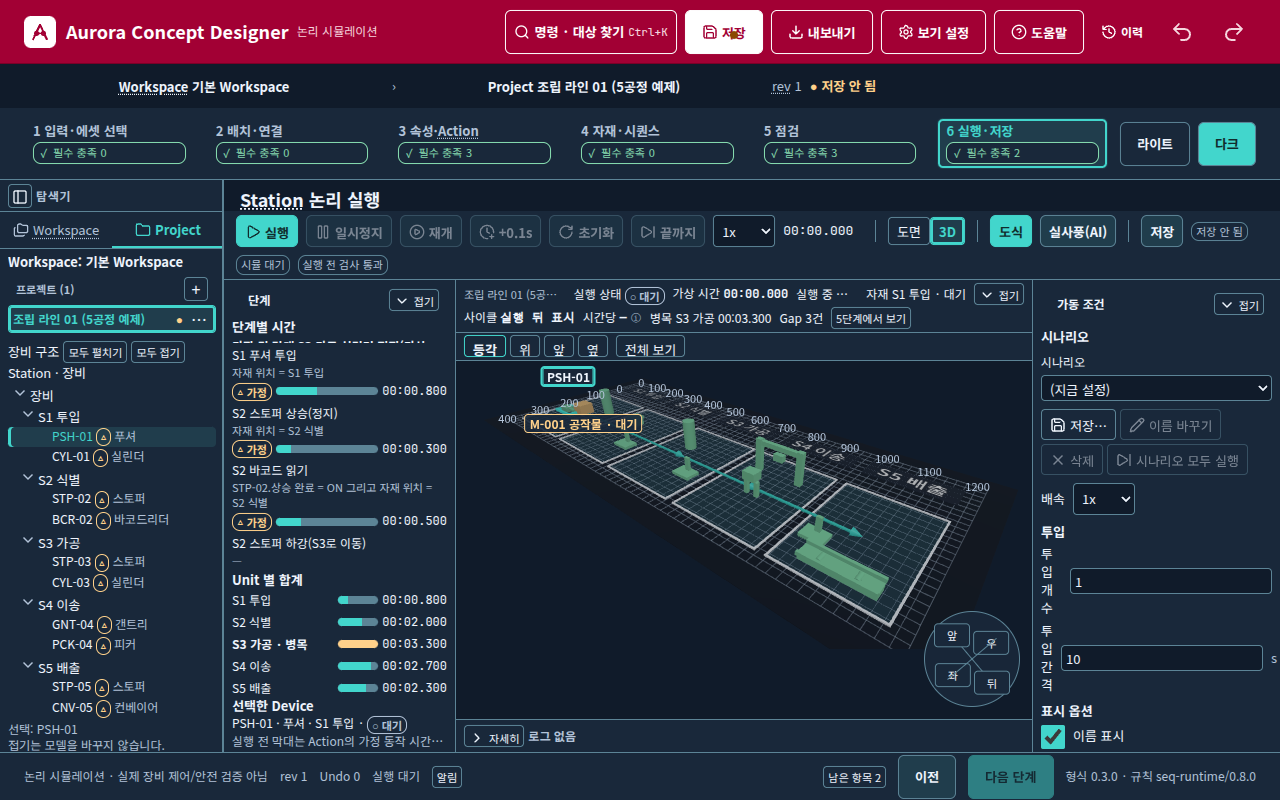
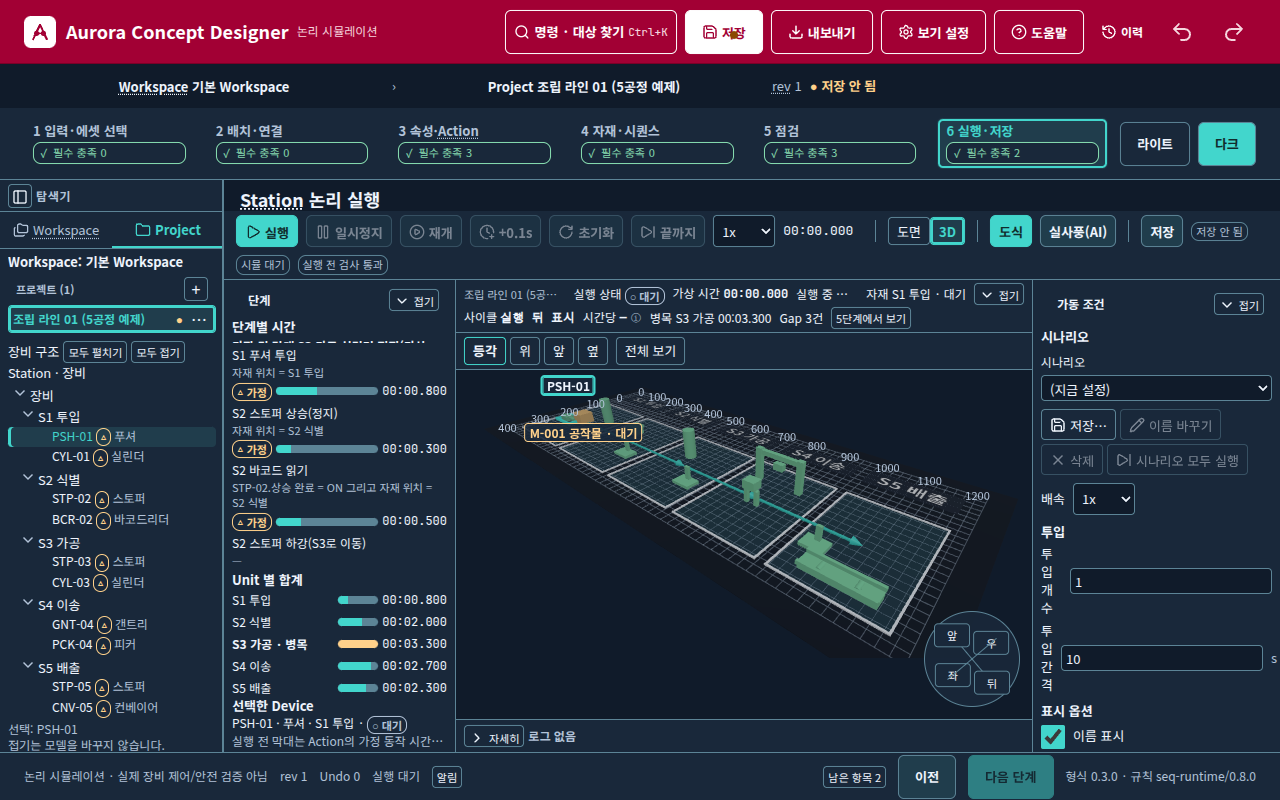
TURN-086: 시점 단추 줄이 캔버스에 가리지 않게 하고 위 시점을 도면 방향으로 맞춘다
단추 높이를 줄 안에 두고, 위 시점은 yaw 0 · pitch 1.5 로 거의 수직에서 본다.

Changed region(s): [[0.3438, 0.4062, 0.7812, 0.8125]]

diff --git a/tests/ui-turn086.test.tsx b/tests/ui-turn086.test.tsx
@@ -75,7 +75,8 @@ describe('TURN-086 3D view controls', () => {
     expect(stage().getAttribute('data-viewpoint')).toBe('iso');
     expect(stage().getAttribute('data-camera-yaw')).toBe('0.700');
     await ui.click(ui.el.querySelector('[aria-label="시점 위"]')!);
-    expect(stage().getAttribute('data-camera-pitch')).toBe('1.350');
+    expect(stage().getAttribute('data-camera-yaw')).toBe('0.000');
+    expect(stage().getAttribute('data-camera-pitch')).toBe('1.500');
     expect(stage().getAttribute('data-viewpoint')).toBe('top');
     expect(loadView(localStorage).sceneViewpoint).toBe('top');
     const host = stage() as HTMLElement;
@@ -113,7 +114,7 @@ describe('TURN-086 3D view controls', () => {
       await vi.advanceTimersByTimeAsync(VIEW_WAIT);
       draw();
     });
-    expect(stage().getAttribute('data-camera-pitch')).toBe('1.350');
+    expect(stage().getAttribute('data-camera-pitch')).toBe('1.500');
   });
 
   it('AC2 the compass follows the camera and a click goes to that side', async () => {

diff --git a/tests/turn086.test.ts b/tests/turn086.test.ts
@@ -39,6 +39,9 @@ describe('TURN-086 viewpoint math', () => {
     expect(compassRotationDeg(Math.PI / 2)).toBeCloseTo(270, 3);
     expect(compassRotationDeg(0.7)).not.toBe(compassRotationDeg(0));
     expect(COMPASS_POINTS.map((item) => item.label)).toEqual(['앞', '우', '뒤', '좌']);
+    expect(viewpointAngles('top').yaw).toBe(0);
+    expect(viewpointAngles('top').pitch).toBeGreaterThan(1.45);
+    expect(viewpointAngles('top').pitch).toBeLessThan(Math.PI / 2);
     expect(viewpointAngles('front').yaw).toBe(0);
     expect(viewpointAngles('back').yaw).toBeCloseTo(Math.PI);
     expect(viewpointAngles('left').yaw).toBeCloseTo(-Math.PI / 2);

diff --git a/src/scene/viewQuality.ts b/src/scene/viewQuality.ts
@@ -28,7 +28,8 @@ export interface ViewpointAngles { yaw: number; pitch: number }
 /** yaw 0 looks from +z (앞). pitch is radians above the floor, capped like orbit. */
 const POSE: Record<SceneViewpoint, ViewpointAngles> = {
   iso: { yaw: 0.7, pitch: 0.62 },
-  top: { yaw: 0.7, pitch: 1.35 },
+  /** yaw 0 matches the diagram's front. Pitch stays short of straight down so the view basis stays defined. */
+  top: { yaw: 0, pitch: 1.5 },
   front: { yaw: 0, pitch: 0.42 },
   side: { yaw: Math.PI / 2, pitch: 0.42 },
   back: { yaw: Math.PI, pitch: 0.42 },

diff --git a/src/ui/scene3d-quality.css b/src/ui/scene3d-quality.css
@@ -1,4 +1,18 @@
 /* TURN-086. Viewpoint buttons, compass, grid numbers, selected name. Tokens only. */
+/* The 28px bar clipped the 28px buttons under the canvas. Keep a full row above the scene. */
+.run-stage > .scene3d-bar {
+  flex: 0 0 auto;
+  height: auto;
+  min-height: calc(28px + var(--sp-1) * 2);
+  padding: var(--sp-1) var(--sp-2);
+  position: relative;
+  z-index: 2;
+}
+.run-stage > .scene3d-bar button {
+  height: 28px;
+  line-height: 20px;
+  padding: 0 var(--sp-2);
+}
 .scene3d-views {
   display: flex;
   align-items: center;

diff --git a/docs/turns/TURN-086.md b/docs/turns/TURN-086.md
@@ -5,6 +5,8 @@
 ## 한 일
 
 - 3D 장면 위에 시점 단추 등각 · 위 · 앞 · 옆을 두었다. 키보드 1~4도 같은 시점이다. 옮기는 시간은 `--dur-3`(320ms)이고, 「움직임 줄이기」면 한 번에 도착한다. 「전체 보기」와 Home 은 지금처럼 등각으로 맞춘다.
+- 시점 줄은 단추 높이 28px 가 들어가게 두고, 장면은 그 아래에서 시작한다. 1280×800 에서 단추 아래쪽이 캔버스에 가리지 않고, 문서 스크롤은 0 이다.
+- 「위」는 도면과 같은 방향이다. yaw 0, pitch 1.5(거의 수직, 바로 위는 아님 — 시선 축이 무너지지 않게).
 - 구석의 방향 표시는 카메라 yaw 를 따라 돈다. 앞 · 뒤 · 좌 · 우를 누르면 그 방향으로 간다. 위쪽에 온 글자가 지금 보는 쪽이다.
 - 바닥 격자는 도면 점 간격과 같은 20mm 다. mm 숫자는 가까운 두 변에만 둔다. 「가동 조건」의 「바닥 격자」로 끄고, 켜짐은 UserView 에 남는다. 시점 id 도 같이 남는다. 프로젝트 파일에는 쓰지 않는다.
 - 장치 아래 그림자는 평면에 한 장으로 그린다. 실시간 그림자 맵은 켜지 않는다. 도식과 실사풍 둘 다 같은 접지 그림자를 쓴다.
@@ -41,4 +43,5 @@ Headless Chrome. 기기 픽셀 배율 1. 콘솔 오류 0. `scrollWidth` 1280, `s
 
 - 접지 그림자는 부드러운 얼룩이 아니라 장치 발 밑의 반투명 평면이다. 도식에서는 실사풍보다 옅게 보인다.
 - 「전체 보기」는 이번 장면만 등각으로 맞추고, 기억된 시점 id 는 지우지 않는다. 다음에 3D 를 열면 마지막 시점 단추가 다시 적용된다.
+- 검토에서 잘리던 시점 단추는 줄을 높여 고쳤다. 「위」는 yaw 0 · pitch 1.5 로 바꿨다.
 - 옆 · 왼쪽 시점은 등각 맞춤 루프가 거리를 너무 밀어 장면이 작아져서, 같은 바라보는 점을 유지한 채 거리만 다시 맞춘다.
